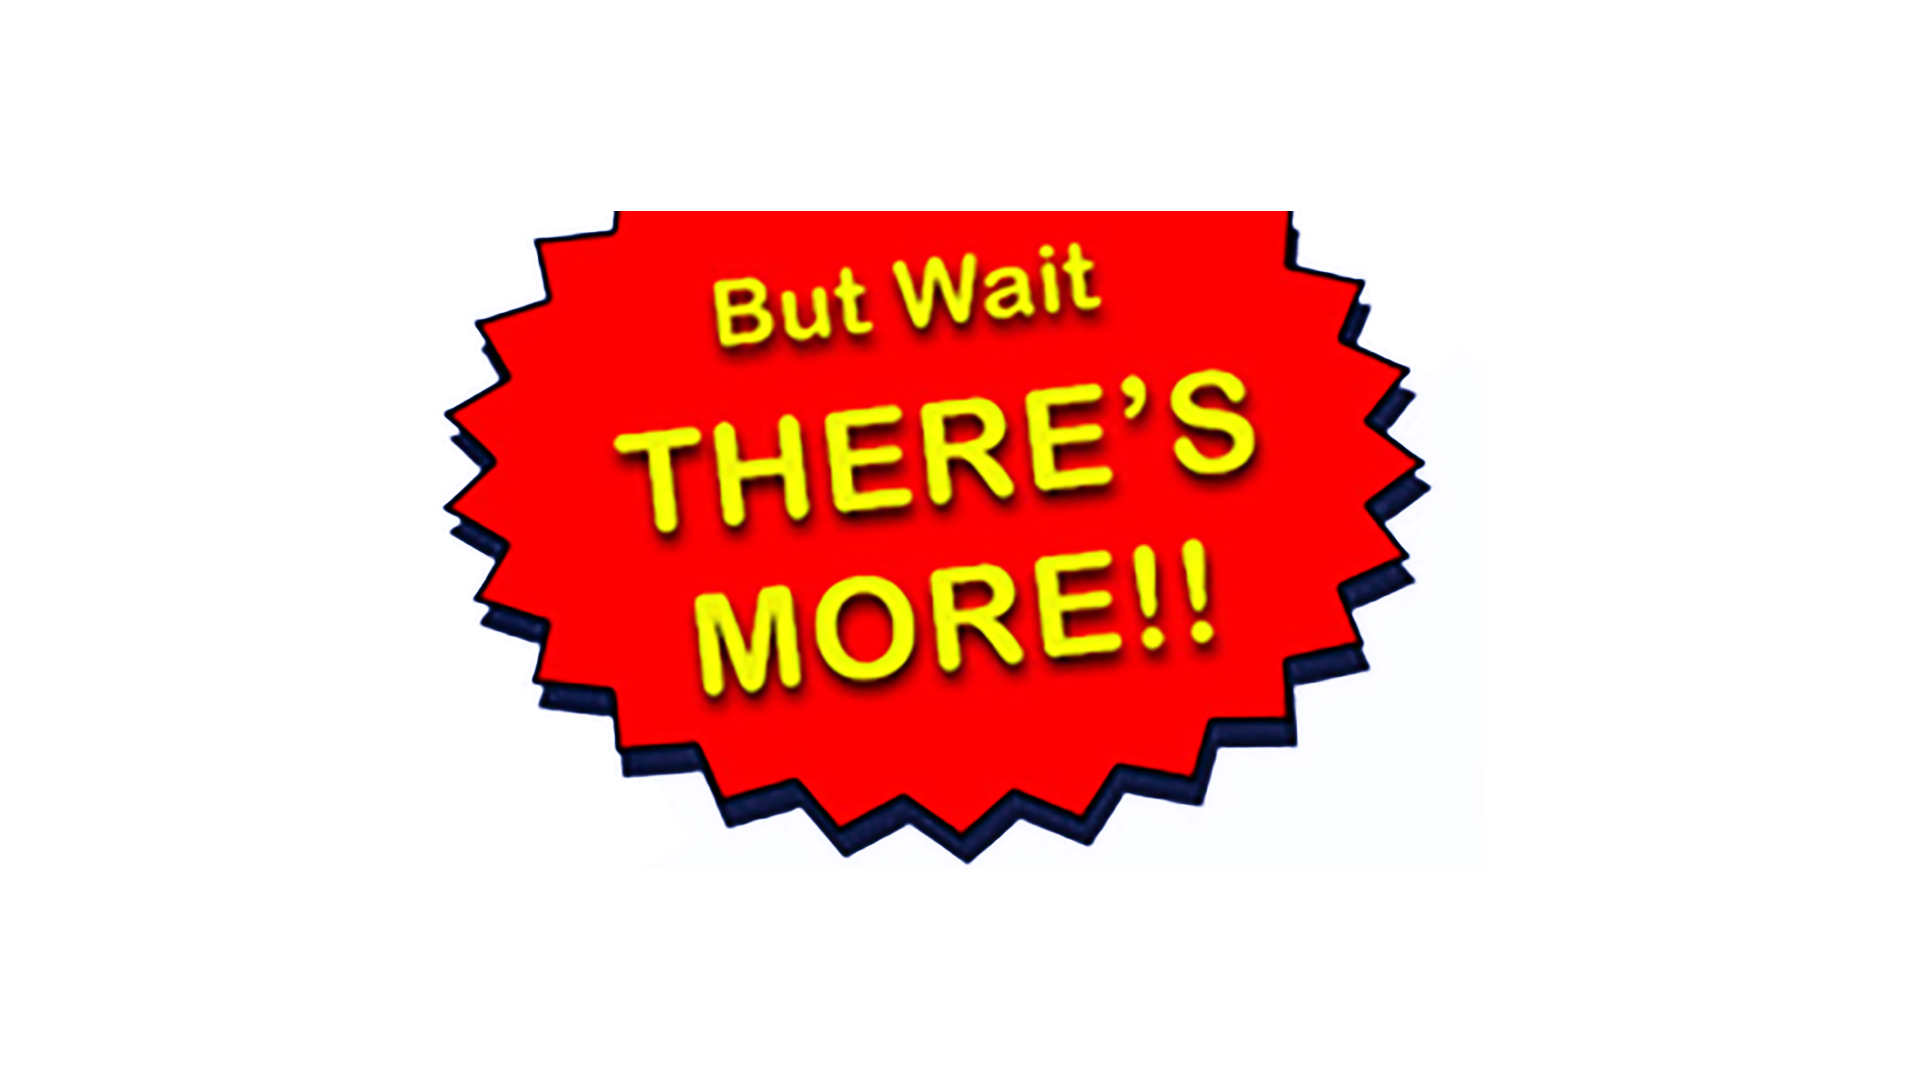
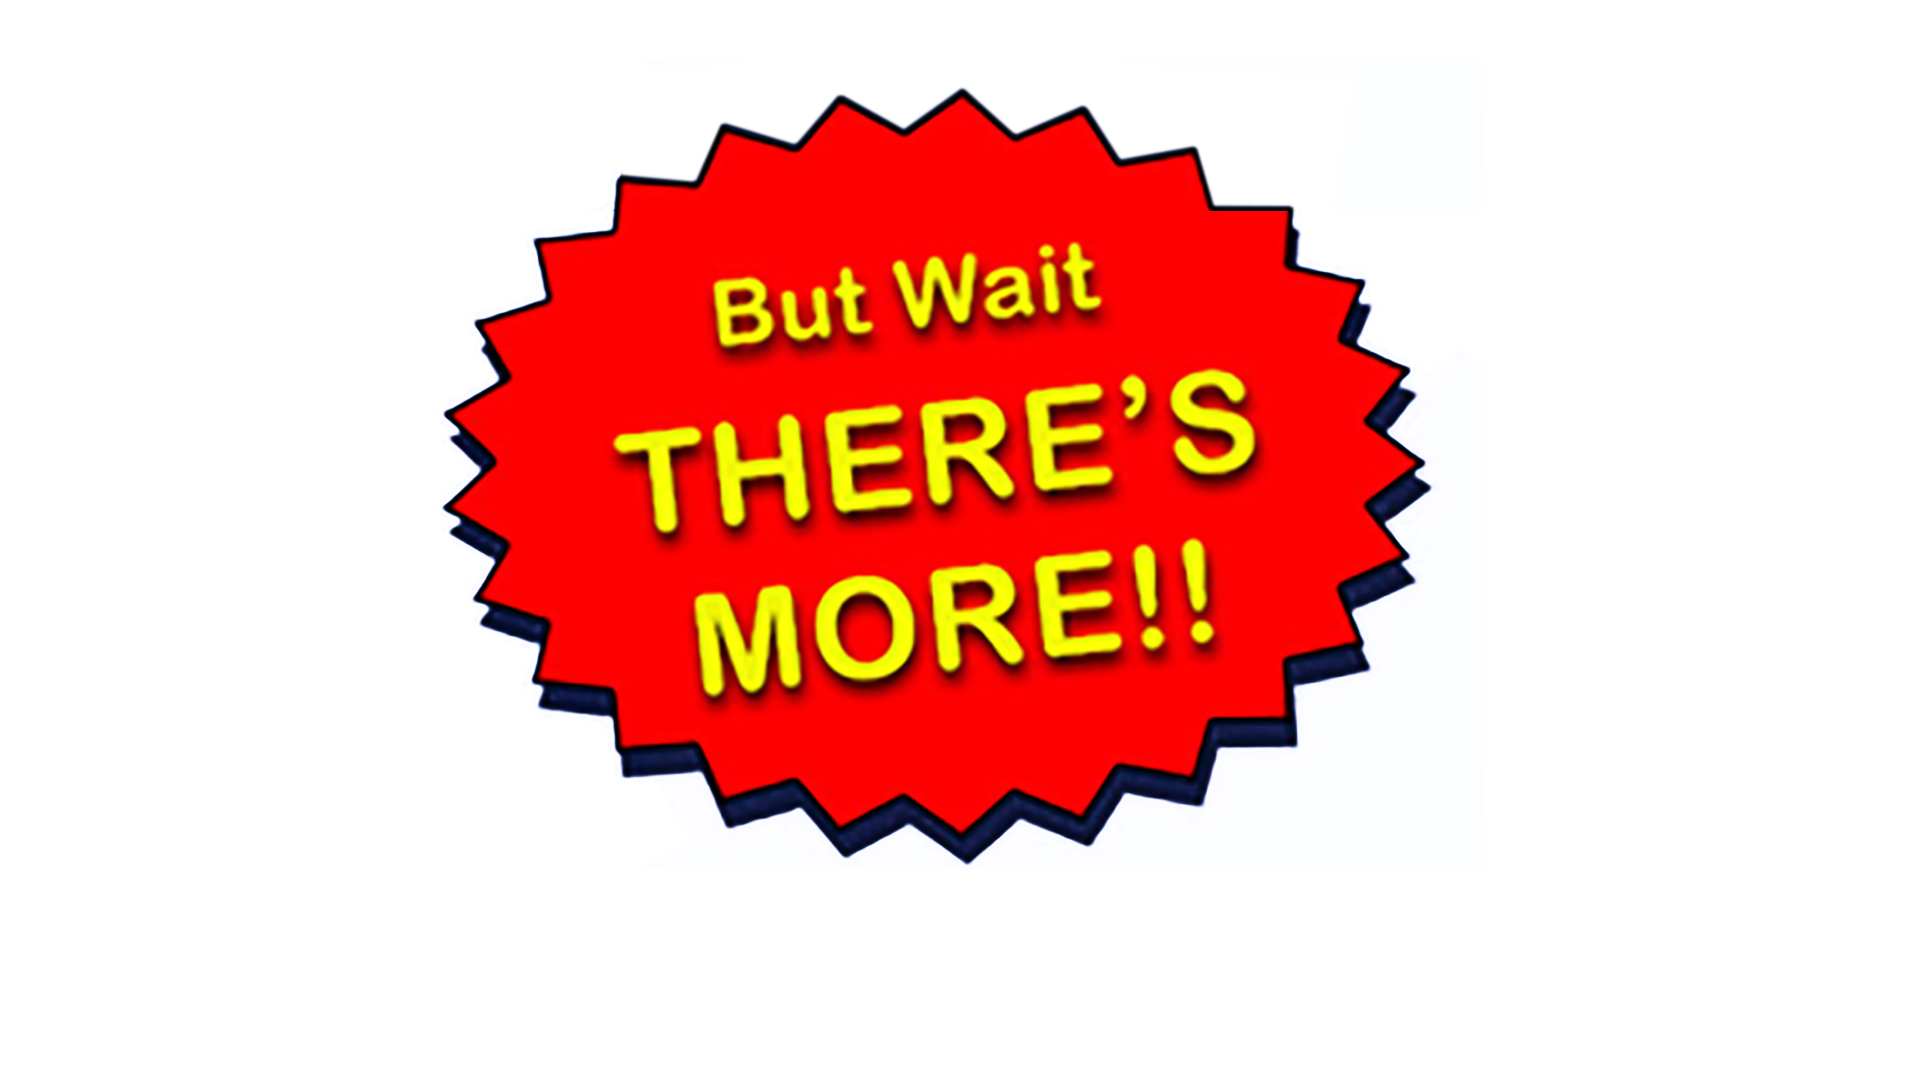
Finish up outro

Changed region(s): [[0.3125, 0.0917, 0.6875, 0.2139]]

diff --git a/reveal.js/index.html b/reveal.js/index.html
@@ -295,19 +295,20 @@
 						<iframe src="https://www.youtube.com/embed/fK2MCXpDWB4?start=85&autoplay=0" width="1600" height="900" frameborder="0"></iframe>
 					</div>
 					<aside class="notes" data-markdown>
-						Very early example of randomness in art  
+						Very early example of randomness in art, in late 18th century  
+						Musical "game"  
 						Roll dice, choose a musical phrase  
 					</aside>
 				</section>
 
 				<section>
-					<iframe data-src="https://player.vimeo.com/video/TODO?autoplay=1&loop=1&color=ffffff&title=0&byline=0&portrait=0" width="1600" height="900" frameborder="0"></iframe>
+					<iframe data-src="https://player.vimeo.com/video/5007705?autoplay=1&loop=1&color=ffffff&title=0&byline=0&portrait=0" width="1600" height="900" frameborder="0"></iframe>
 					<div class="background-caption for-iframe">
 						<h3>random walk algorithm</h3>
-						<h5 class="byline thin"><a href="TODO" target="_blank">Dan Shiffman</a></h5>
+						<h5 class="byline thin"><a href="https://vimeo.com/5007705" target="_blank">toneburst</a></h5>
 					</div>
 					<aside class="notes" data-markdown>
-						Jumping ahead a bit  
+						Jumping ahead a bit (in time)  
 						Random walk algorithm, used extensively to illustrate randomness across space / in motion  
 					</aside>
 				</section>
@@ -667,7 +668,9 @@
 						<h5 class="byline thin"><a href="http://design-io.com/projects/RiseAndFall/" target="_blank">Design I/O</a></h5>
 					</div>
 					<aside class="notes" data-markdown>
-
+						AR experiment  
+						animation brings life to the characters  
+						creates a playful personality for the whole piece  
 					</aside>
 				</section>
 
@@ -690,7 +693,8 @@
 						<h5 class="byline thin"><a href="https://stamen.com/work/atlas-of-emotions/" target="_blank">Stamen</a></h5>
 					</div>
 					<aside class="notes" data-markdown>
-
+						intensity of emotions represented by area charts  
+						animate opening each chart to imbue the charts themselves with emotion, personality  
 					</aside>
 				</section>
 
@@ -703,7 +707,8 @@
 						<h5 class="byline thin"><a href="http://www.gapminder.org/videos/200-years-that-changed-the-world-bbc/" target="_blank">Hans Rosling / BBC</a></h5>
 					</div>
 					<aside class="notes" data-markdown>
-						
+						motion to illustrate change over time  
+						world's population climbing out of poverty, into better health  
 					</aside>
 				</section>
 
@@ -750,14 +755,10 @@
 						<li class="fragment fade-up"><h3>visual appeal</h4></li>
 					</ul>
 					<aside class="notes" data-markdown>
-						Obviously don't need to tell a room full of visualization practitioners how important color is for visualiation.  
-						I can list off some relevant applications (_step through them here_)...but  
+						Obv don't need to tell room full of viz practitioners how important color is for viz.  
+						Some relevant applications (_step thru here_)...but  
 						**How to source colors?**  
 						Of course, ColorBrewer, but let's take a look at some other techniques.  
-
-						transition by removing '.title-slide' class -- white veil is lifted off of colorful background
-						also, consider using blend modes; mix-blend-mode:multiply on '.slides' and then make title bigger, bold, and pull a color from background image e.g. #fc3a6d
-						generally speaking, using mix-blend-mode:multiply could work well for background-caption, though i think for it to work the background-caption div would have to move out of .slides and into .backgrounds
 					</aside>
 				</section>
 
@@ -774,7 +775,7 @@
 						<h5 class="byline thin"><a href="https://www.flickr.com/photos/natzke/3726222451" target="_blank">Erik Natzke</a></h5>
 					</div>
 					<aside class="notes" data-markdown>
-						sample color for brush stroke from brush stroke position
+						sample color for brush stroke from brush stroke position  
 					</aside>
 				</section>
 
@@ -784,7 +785,7 @@
 						<h5 class="byline thin"><a href="http://www.complexification.net/gallery/machines/boxFittingImg/index.php" target="_blank">Jared Tarbell</a></h5>
 					</div>
 					<aside class="notes" data-markdown>
-						sample from source image
+						sample from source image  
 					</aside>
 				</section>
 
@@ -794,7 +795,7 @@
 						<h5 style="text-align: right" class="byline thin"><a href="https://www.flickr.com/photos/quasimondo/4655584147" target="_blank">Mario<br>Klingemann</a></h5>
 					</div>
 					<aside class="notes" data-markdown>
-						sample from source image meets analysis + visualization
+						sample from source image meets analysis + visualization  
 					</aside>
 				</section>
 
@@ -817,7 +818,7 @@
 						<h5 class="byline thin"><a href="http://hint.fm/projects/flickr/" target="_blank">Fernanda Viégas & Martin Wattenberg</a></h5>
 					</div>
 					<aside class="notes" data-markdown>
-						Instead of finding dominant color across space, derive dominant color across time.
+						Instead of finding dominant color across space, derive dominant color across time.  
 					</aside>
 				</section>
 
@@ -827,7 +828,7 @@
 						<h5 class="byline thin"><a href="http://www.brendandawes.com/projects/cinemaredux" target="_blank">Brendan Dawes</a></h5>
 					</div>
 					<aside class="notes" data-markdown>
-						Reduce image to thumbnails, sample color across time.
+						Reduce image to thumbnails, sample color across time.  
 					</aside>
 				</section>
 
@@ -837,7 +838,7 @@
 						<h5 class="byline thin"><a href="http://typecast.qwriting.qc.cuny.edu/2013/10/07/western-roundup/" target="_blank">Kevin L. Ferguson</a></h5>
 					</div>
 					<aside class="notes" data-markdown>
-						Average colors across time.
+						Average colors across time.  
 					</aside>
 				</section>
 
@@ -879,10 +880,11 @@
 						<h5 class="byline thin"><a href="https://medium.com/visualizing-the-field/why-people-leave-their-data-viz-jobs-be1a7ab5dddc" target="_blank">Elijah Meeks</a></h5>
 					</div>
 					<aside class="notes" data-markdown>
-						how do we decide which approach is best for a given scenario?
-						for a given dataset?
-						for product, for client services?
-						for a career?
+						how do we decide which approach is best for a given scenario? for:  
+						- a given dataset?  
+						- product, for client services?  
+						- a career?  
+						relevant to me personally, as I recently transitioned from Stamen to Nico's viz team @ Uber.  
 					</aside>
 				</section>
 
@@ -905,16 +907,16 @@
 					<br>
 					<h2 class="thin">@ericsoco</h2>
 					<h2 class="thin">medium.com/visualizing-the-field</h2>
-					<img data-src="./ovc2017/slides/butWaitTheresMore.png" class="fragment">
+					<img data-src="./ovc2017/slides/butWaitTheresMore.png" class="fragment zoom-in but-wait">
 					<aside class="notes" data-markdown>
 						Tweet at me if you want to share your thoughts!
 					</aside>
 				</section>
 
-				<section data-background-image="./ovc2017/slides/TODO.jpg" data-background-size="contain">
+				<section data-background-image="./ovc2017/slides/inauguration.jpg" data-background-size="contain">
 					<div class="background-caption">
 						<h3>2017 Inauguration</h3>
-						<h5 class="byline thin"><a href="TODO" target="_blank">National Parks Service</a></h5>
+						<h5 class="byline thin"><a href="http://www.newsy.com/stories/national-park-service-releases-photos-of-inauguration-crowd/" target="_blank">National Parks Service (via newsy.com)</a></h5>
 					</div>
 					<aside class="notes" data-markdown>
 						Lately I've been feeling like I'm not represented by my government.  

diff --git a/reveal.js/ovc2017/style.css b/reveal.js/ovc2017/style.css
@@ -395,3 +395,16 @@ body {
   position: relative;
   top: -144px;
 }
+
+.reveal .slides section img.fragment.zoom-in {
+  box-shadow: none;
+}
+.reveal .slides section .fragment.zoom-in.but-wait {
+  left: 51%;
+  top: -28%;
+  transform: translateX(-50%) scale(0.1);
+  transition: transform 0.5s cubic-bezier(0.175, 0.885, 0.32, 1.275);
+}
+.reveal .slides section .fragment.zoom-in.but-wait.visible {
+  transform: translateX(-50%) scale(1.25);
+}
